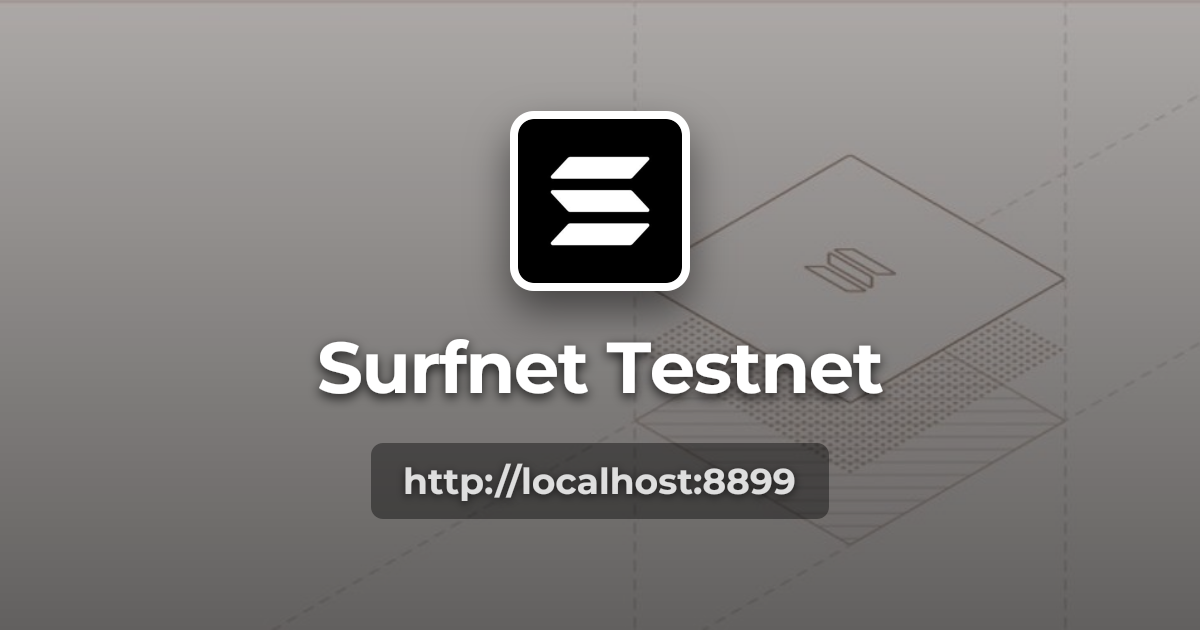
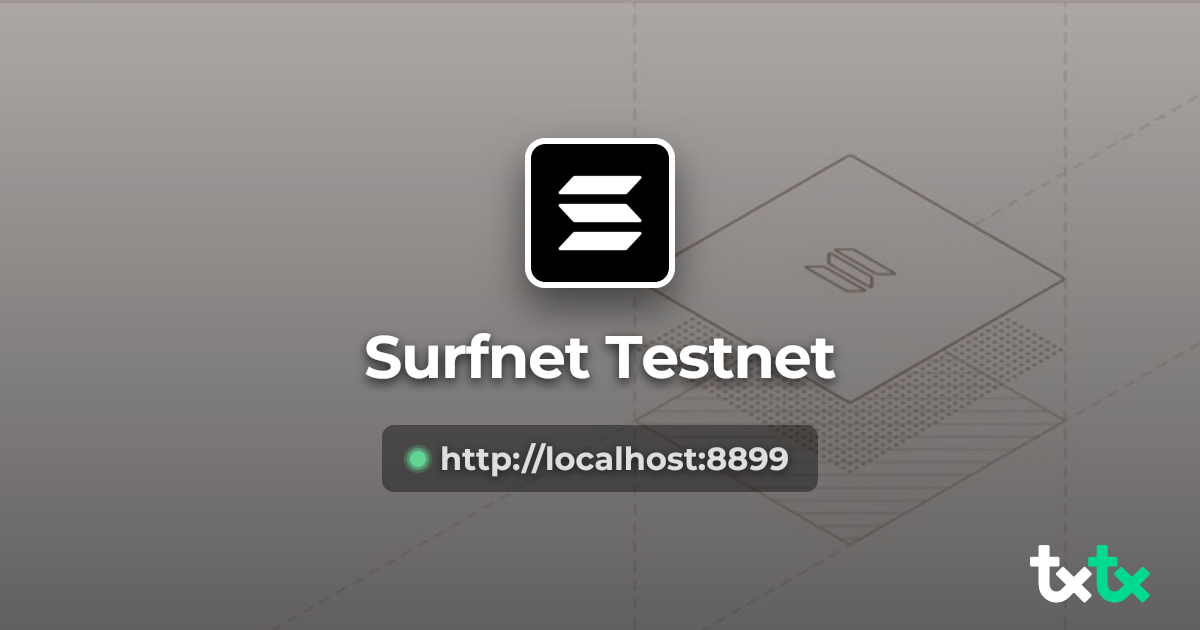
feat: polish og-image, sticky faucet

diff --git a/apps/surfnet/src/app/page.tsx b/apps/surfnet/src/app/page.tsx
@@ -253,7 +253,7 @@ export default function Home() {
         <div className="border-b border-zinc-800" />
 
         {/* Two-column Layout */}
-        <div className="flex flex-col-reverse items-start gap-8 py-8 px-4 lg:grid lg:grid-cols-[1fr_450px] bg-zinc-950">
+        <div className="flex flex-col-reverse gap-8 py-8 px-4 lg:grid lg:grid-cols-[1fr_450px] lg:gap-8 bg-zinc-950">
           {/* Main Content */}
           <div className="w-full">
             <div className="space-y-6">
@@ -267,13 +267,13 @@ export default function Home() {
             </div>
           </div>
 
-          {/* Sidebar - Fixed 450px width like studio */}
-          <div className="w-full lg:w-[450px] lg:max-w-[450px] lg:min-w-[450px]">
-            <div className="space-y-4">
+          {/* Sidebar - Sticky faucet (desktop only) */}
+          <aside className="w-full lg:w-[450px]">
+            <div className="lg:sticky lg:top-4">
               {/* Faucet Widget */}
               {config.faucet_enabled && <Faucet rpcUrl={config.rpc_url} />}
             </div>
-          </div>
+          </aside>
         </div>
 
         {/* Footer */}
